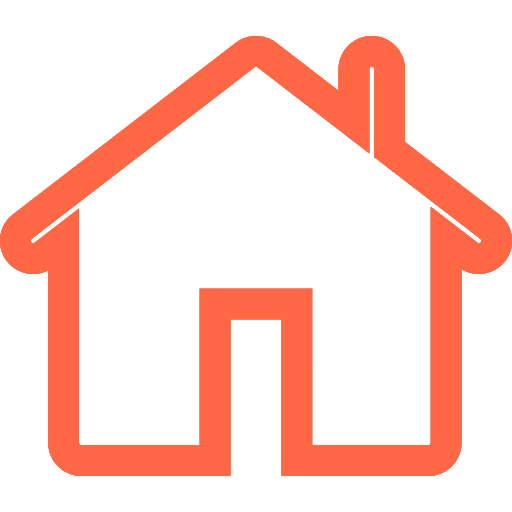
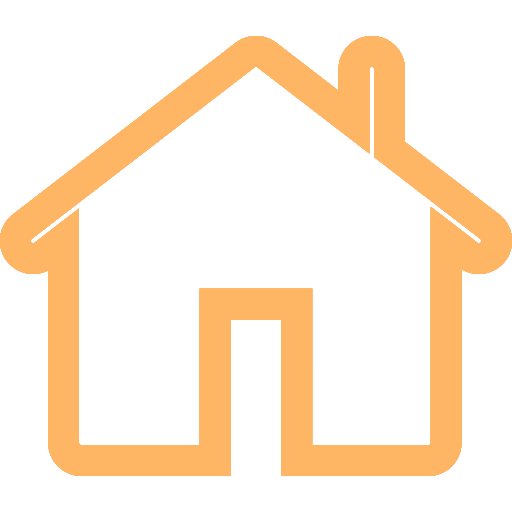
메인/프로필
수정

Changed region(s): [[0.0, 0.0625, 1.0, 0.9375]]

diff --git a/index.html b/index.html
@@ -7,17 +7,17 @@
     <!------------------ fontawesome ------------------->
     <link rel="stylesheet" href="https://use.fontawesome.com/releases/v5.4.1/css/all.css" integrity="sha384-5sAR7xN1Nv6T6+dT2mhtzEpVJvfS3NScPQTrOxhwjIuvcA67KV2R5Jz6kr4abQsz" crossorigin="anonymous">
     
+    <!------------------ css ------------------->      
     <link rel="stylesheet" href="css/styles1.css">
     
-     
-<link href="https://fonts.googleapis.com/css?family=Didact+Gothic|Noto+Sans+KR&display=swap" rel="stylesheet">
+     <!------------------ font ------------------->  
+    <link href="https://fonts.googleapis.com/css?family=Didact+Gothic|Noto+Sans+KR&display=swap" rel="stylesheet">
     
      <!------------------ js ------------------->   
     <script src="script/plugin/jquery-1.12.3.js"></script>
     <script src="script/plugin/jquery.easing.min.js"></script>
     <script src="script/plugin/jquery.inview.min.js"></script>
     <script src="script/script.js"></script>
-
 </head>
 <body>
     <div id="wrap">
@@ -134,22 +134,16 @@
            <!-- 포트폴리오 끝 -->
            
            <section class="main cont">
-               <h1>KANG HYUN JI</h1>
-               <div class="line">
-                 <p class="top"></p>
-                 <p class="lineR"></p>
-                 <p class="bottom"></p>
-                 <p class="lineL"></p>
-               </div>
+                 <h1>kanghyunji</h1>
+                 <h2>kanghyunji text</h2>
+                 <h3>who is she?</h3>           
                
                <div class="m_btn">
                  <p class="left"><a href="#">Portfolio</a></p>
                  <p class="center">Click!</p>
                  <p class="right"><a href="#">About Me</a></p>
                </div>
-               <div class="center_info">
-               </div>
-               <div class="bg"></div>
+               <div class="center_info"></div>
            </section>
            
            <!-- main 화면 -->
@@ -162,7 +156,6 @@
                     <p class="btn01 click"><a href="#">About Me</a></p>
                     <p class="btn02"><a href="#">Skill</a></p>
                     <p class="btn03"><a href="#">Keyword</a></p>
-                    <p class="btn04"><a href="#">Experience</a></p>
                     <p class="btn05"><a href="#"><img src="images/house.png" alt="메인메뉴"></a></p>
                   </div>
                 </div>  
@@ -238,6 +231,8 @@
                           </div>
                       </div>                 
                   </div>
+                  <!-- skill 끝 -->
+                  
                   <div class="tab1 keyword">
                       <ul class="keyicon">
                         <li>
@@ -275,42 +270,7 @@
                         </li>
                       </ul>
                    </div>
-                  <div class="tab1 experience"> 
-                    <div class="text">
-                      <h3><span>My Colorful experience!</span></h3>
-                      <p>
-                         저는 여행하는 것을 좋아합니다. 휴양지보다는 볼거리가 많은 나라 위주로 다녔습니다.<br />
-                        새로운 곳을 가고 새로운 사람들과 함께 대화 나누는 것에서 재미를 느끼고 
-                        다양한 것을 보고, 경험하고 싶어 합니다.<br /> 
-                        그리고 저는 전시회를 자주 찾아가는 편입니다.
-                        새로운 무언가를 작품을 통해서 느낄 수 있는 곳이기 때문입니다. 간접적으로 누군가의 생각, 경험, 가치관을 알 수 있고
-                        또한 그것으로 내가 몰랐던 크고 신기한 세계를 경험할 수 있는 곳이라 생각합니다. 그리고 애니메이션과 감각적인 색감의 모든 작품을 좋아합니다.
-                        어렸을 적에 디즈니 애니메이션을 접하게 되었고, 그 작품만의 디테일과 색감을 접하고 찾았던 것이 디자인 할때 영감을 주었습니다.
-                      </p>
-                    </div>
-                    <div class="mask">
-                      <ul>
-                        <li>
-                          <img src="./images/pic_1.jpg" alt="사진1">
-                        </li>
-                        <li>
-                          <img src="./images/pic_2.jpg" alt="사진2">
-                        </li>
-                        <li>
-                          <img src="./images/pic_3.jpg" alt="사진3">
-                        </li>
-                        <li>
-                          <img src="./images/pic_4.jpg" alt="사진4">
-                        </li>
-                        <li>
-                          <img src="./images/pic_5.jpg" alt="사진5">
-                        </li>
-                        <li>
-                          <img src="./images/pic_6.jpg" alt="사진6">
-                        </li>
-                      </ul>
-                    </div>
-                  </div>
+                   <!-- keyword 끝 -->
                  </div>
                 </div>        
          </section>

diff --git a/css/styles1.css b/css/styles1.css
@@ -8,7 +8,8 @@ img{border:none;}
 
 html,body{ 
   height: 100%; 
-  font-family:'Didact Gothic', 'Noto Sans KR',sans-serif; }
+  font-family:'Didact Gothic', 'Noto Sans KR',sans-serif; 
+  background-color:#edeae1;}
 #wrap{
   overflow:hidden;  
   width: 100%; 
@@ -34,112 +35,75 @@ hr{display:none;}
 
 /*------------------------ 메인 ----------------------------*/
 
-.main{ 
+.main{
   position: relative;
-  top:0; 
   z-index:700;
 }
-
-.main>h1{  
-  margin-top:19%;
-  color:#38618f; 
-  font-size:7.5em;
-  text-align: center;
-  text-shadow:4px 3px #ccc; 
-  font-style:italic; 
-  cursor:pointer;
-  animation:ani 3s 1; 
-}
-
-.main>.line{
-  position: absolute; 
-  top:25%;
-  width:100%;
-  height:49%; 
-}
-.main>.line>p{
-  position: absolute;
-  background-color:#c4c2b8;
-}
-
-.top{
-  top:0;
-  left:0; 
-  width:0%;  
-  height:30px;
-}
-
-.bottom{ 
-  bottom:0; 
-  right:0;
-  width:0%;
-  height:30px;
-}
-
-.center_info{ 
-  position: fixed; 
+.main>h1{
+  position: relative;
   left:50%;
-  top: 50%; 
-  margin-left:-400px; 
-  margin-top:-222px;
-  z-index:50;
-  opacity: 0;
-  width:800px; 
-  height:445px; 
-  transition:all 0.4s;
-  background-image: url(../images/contact.png);
+  top:50%;
+  transform:translate(-50%,-50%);
+  width:697px;
+  height: 530px;
+  text-indent:-9999px;
+  background-image: url(../images/main.png);
+}
+.main>h2{
+  position: absolute;
+  top:7%; left:50%;
+  transform:translateX(-50%);
+  width: 691px;
+  height: 68px;
+  text-indent:-9999px;
+  background-image: url(../images/h1.png);
   background-repeat:no-repeat;
 }
+.main>h3{
+  position: absolute;
+  left:23%;
+  top:16%;  
+  width: 54px;
+  height: 522px;
+  text-indent:-9999px;
+  background-image: url(../images/who.png);}
 
-.bg{ 
-  position:fixed; 
-  left: 0; 
-  top: 0; 
-  width:0;
-  height:0; 
-  background-color:rgba(0,0,0,0.5);
-}
+
+
 
 /*------------------------ 메인 버튼 --------------------------*/
-
 .m_btn{
-  font-style:italic; 
-  text-shadow:3px 3px #ccc;
+  position: relative;
+  text-indent:-9999px;
+  top:16%;
+  cursor:pointer;
 }
-
-.m_btn>p{
-  position: absolute; 
-  bottom:40px; 
-  z-index:800; }
-
-.m_btn>.left{ left:30px; }
-
-.m_btn>.center{ 
-  left:50%;
-  margin-left:-40px; 
-  color:#38618f;
-  font-size:40px;
-  font-style:normal;
-  text-shadow:none;
-  font-weight:bold;
-  cursor:pointer; }
-
-.m_btn>.center:hover{
-  color:#fd9735;
+.left{
+  position: absolute;
+  left:20px;
+  top:10px;
+  width:40px;
+  height:48px;
+  background-image:url(../images/left.png);
 }
-
-.m_btn>.right{ right:40px; }
-
-.m_btn>p>a{
-  color:#38618f; 
-  font-weight:800; 
-  line-height: 50px;
-  font-size:50px; 
+.center{
+  position: absolute;
+  left: 50%;
+  transform:translateX(-50%);
+  top:20px;
+  width:30px;
+  height:30px;
+  border-radius:50%;
+ background-color:#5e4bc1;
 }
-.m_btn>p:hover>a{
-  color:#fd9735;
+.right{
+    position: absolute;
+  right:20px;
+  top: 10px;
+  width: 40px; 
+  height: 48px;
+background-image: url(../images/right.png);
 }
-
 /*------------------------ about me --------------------------*/
 
 .aboutme{ 
@@ -153,14 +117,14 @@ hr{display:none;}
 .aboutme>.menubtn{
   position:absolute;
   top:50%; 
-  right:8%;
+  right:3%;
   width:30%; 
   transform: translateY(-50%);
 }
 
 .aboutme>.menubtn>.btn>p>a{
   display: block; 
-  color:#38618f; 
+  color:#5e4ac1; 
   font-size:70px; 
   font-weight:800;
   text-align:right;
@@ -168,7 +132,7 @@ hr{display:none;}
 }
 
 .aboutme>.menubtn>.btn>p.click>a,
-.aboutme>.menubtn>.btn>p>a:hover{ color:#fd9735; }
+.aboutme>.menubtn>.btn>p>a:hover{ color:#feb664; }
 .aboutme>.menubtn>.btn>.btn01>a{ font-size:90px; }
 .aboutme>.menubtn>.btn>p>a>img{ width:49px; height:49px; }
 
@@ -187,7 +151,7 @@ hr{display:none;}
   transform:translate(-50%,-50%); 
   width:900px;
   height:600px; 
-  border:15px solid #38618f;
+  border:15px solid #5e4ac1;
   z-index:100; 
 }
 
@@ -236,7 +200,7 @@ hr{display:none;}
   width:40%;
   height:65%;
   opacity:0;
-  background-color:#38618f;
+  background-color:#5e4ac1;
 } 
 
 #skills>.stick>h2{ text-indent:-9999px; }
@@ -267,7 +231,7 @@ hr{display:none;}
 #skills>.stick>.container>div>.progress>.bar{
  height:100%;
  width:0;
- background-color:#fd9735;
+ background-color:#8bd0d3;
 transition:all 2s ease-in-out;
 }
     
@@ -289,11 +253,11 @@ transition:all 2s ease-in-out;
   color:#fff;
   font-size:23px;
   text-align: center;
-  background-color:#38618f;
+  background-color:#5e4ac1;
 }
 
 .skill_text p{
-  font-size:16px;
+  font-size:15px;
   text-align: center;
 }
 
@@ -312,7 +276,7 @@ transition:all 2s ease-in-out;
   height:30%; 
   opacity:0; 
   margin:0 auto 26px;
-  background-color:#38618f;
+  background-color:#8bd0d3;
   border-radius:40px;
 }
 
